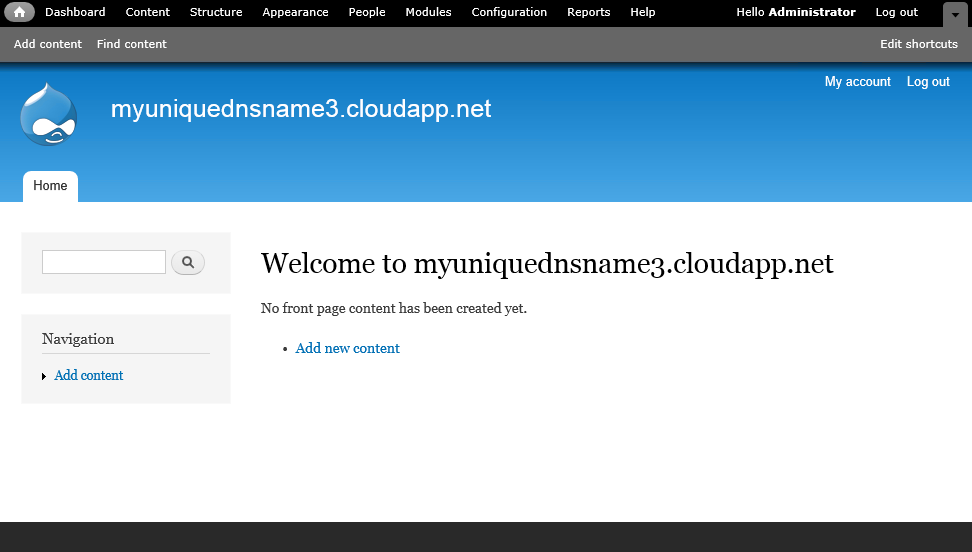
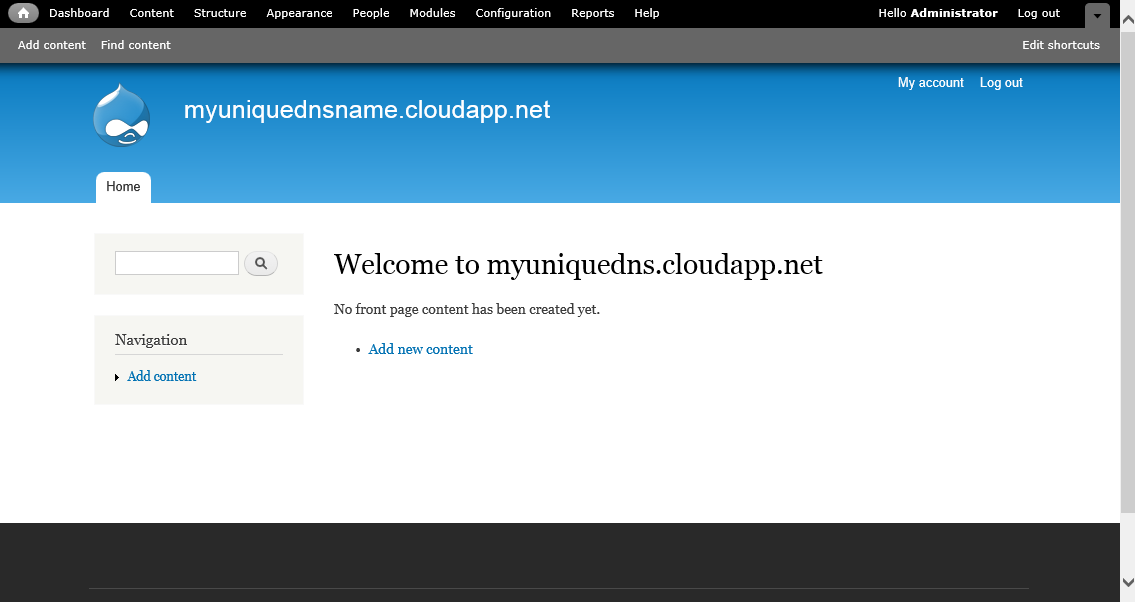
Updated drupal version and updated screenshots

diff --git a/HOL.md b/HOL.md
@@ -262,8 +262,8 @@ In this task, you will install and configure a Drupal portal on your Windows Azu
 1. Download and extract **Drupal**.
 
 	````Linux
-	wget http://drupal.org/files/projects/drupal-7.10.tar.gz
-	tar -xzf drupal-7.10.tar.gz --strip-components=1 
+	wget http://drupal.org/files/projects/drupal-7.22.tar.gz
+	tar -xzf drupal-7.22.tar.gz --strip-components=1 
 	````
 
 	![Downloading Drupal](Images/downloading-drupal.png?raw=true)
@@ -320,7 +320,7 @@ In this task, you will install and configure a Drupal portal on your Windows Azu
 	 
 	_Configuring a Drupal account_
 
-1. Click the **Visit your Web site** link to verify that the Drupal home page loads. 
+1. Click the **Visit your new site** link to verify that the Drupal home page loads. 
 
 	![Drupal CMS home page](Images/drupal-cms-home-page.png?raw=true)
 	 
